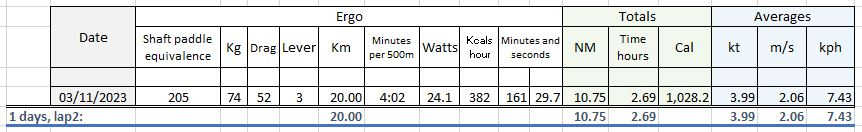
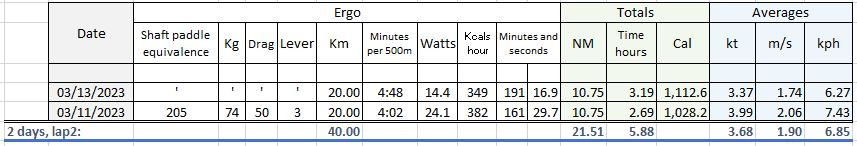
updates

diff --git a/planning/the-route/index.html b/planning/the-route/index.html
@@ -223,7 +223,7 @@ $(document).ready(function(){
 </blockquote>
 <p>The next step was to see which way to proceed: clockwise or counter-clockwise. This took some time discussing with friends and fellow kayakers, and also looking at what other paddlers have done. Around PEI the wind is usually the most important factor, followed by current. The strongest currents are in the strait around the Trans-Canada Highway bridge. Picking up neap tides while traversing this area would make the paddling easier.</p>
 <p>As a side-note, at the time of writing this, the bridge toll is <a href="https://www.confederationbridge.com/tolls-fees">$50.25</a> per car.</p>
-<p>To get a feel for the winds I went to the <a href="https://www.windy.com">Windy</a> website and looked for historical data on the winds around PEI. The prevailing winds during summer are the south-westerlies. The north shore would then be mostly in the lee. In the graph below, the red arrows and text indicate the direction and the force of the wind. The way the island is positioned in relation to these winds would perhaps indicate that it makes more sense to paddle clockwise&hellip; or perhaps not. Made up my mind to paddle clockwise!</p>
+<p>To get a feel for the winds I went to the <a href="https://www.windy.com">Windy</a> website and looked for historical data on the winds around PEI. The prevailing winds during summer are the south-westerlies. The north shore would then be mostly in the lee. In the graph below, the red arrows and text indicate the direction and the force of the wind. The way the island is positioned in relation to these winds would perhaps indicate that it makes more sense to paddle clockwise&hellip; or perhaps not. Will just listen to what the sea has to say!</p>
 <p><img src="/img/Wind.jpg" alt="Fig 1">
 <div style="text-align: center">
 Direction of travel

diff --git a/dry-run/log/index.html b/dry-run/log/index.html
@@ -214,11 +214,11 @@ $(document).ready(function(){
 <p>This is not the actual trip. This is just training mapped on chart to have an idea of what the real thing might be.</p>
 </blockquote>
 <blockquote>
-<p>March 11, 2023, lap2</p>
+<p>March 13, 2023, lap2</p>
 </blockquote>
-<p><img src="/img/mar11.JPG" alt="March 11">
+<p><img src="/img/mar13.JPG" alt="March 13">
 <div style="text-align: center">
-1 day on ergo, 10.7 nautical miles, 20 Km, lap2
+1 day on ergo, 21 nautical miles, 40 Km, lap2
 </div>
 </p>
 <p><img src="/img/Stats2.JPG" alt="Stats">
